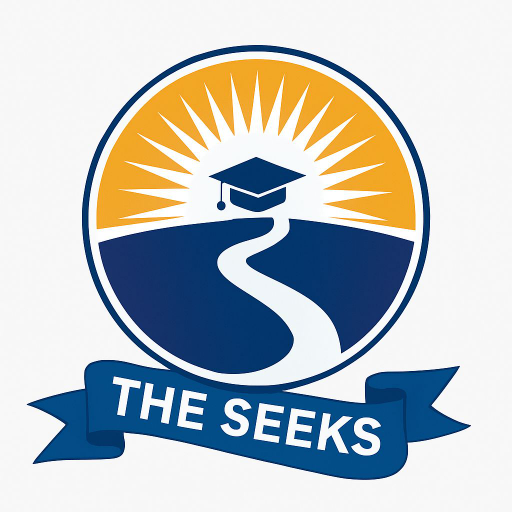
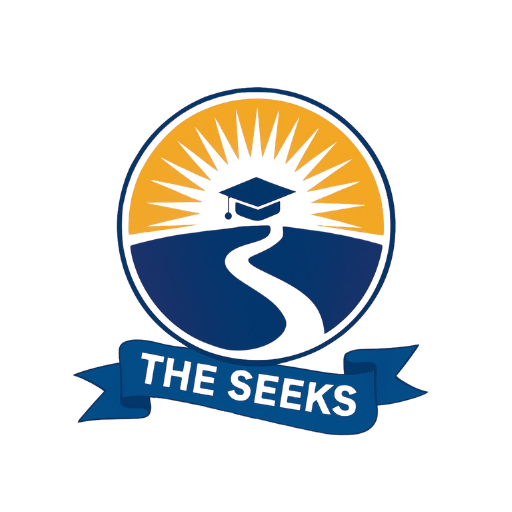
updated

Changed region(s): [[0.0625, 0.0625, 0.9375, 0.9375], [0.5625, 0.5625, 0.5938, 0.5938]]

diff --git a/src/screens/communication/TeacherSuggestionsScreen.tsx b/src/screens/communication/TeacherSuggestionsScreen.tsx
@@ -89,9 +89,9 @@ export const TeacherSuggestionsScreen: React.FC = () => {
           />
 
           <Text style={[styles.inputLabel, { color: theme.text, marginTop: scale(16) }]}>Detailed Suggestion</Text>
-          <View style={{ flex: 1 }}>
+          <View>
             <TextInput
-              style={[styles.textArea, { backgroundColor: theme.card, color: theme.text, borderColor: theme.border, flex: 1 }]}
+              style={[styles.textArea, { backgroundColor: theme.card, color: theme.text, borderColor: theme.border }]}
               placeholder="Explain your suggestion in detail..."
               placeholderTextColor={theme.textSecondary + '80'}
               value={suggestion}

diff --git a/src/screens/academics/TeacherAssignmentsScreen.tsx b/src/screens/academics/TeacherAssignmentsScreen.tsx
@@ -190,7 +190,7 @@ export const TeacherAssignmentsScreen: React.FC = () => {
       <Modal visible={showModal} transparent={true} animationType="slide" onRequestClose={() => setShowModal(false)} statusBarTranslucent={true}>
         <View style={{ flex: 1, backgroundColor: theme.card }}>
           <SafeAreaView style={{ flex: 1 }} edges={['top', 'bottom']}>
-            <KeyboardAvoidingView style={{ flex: 1 }} behavior={Platform.OS === 'ios' ? 'padding' : undefined} keyboardVerticalOffset={0}>
+            <KeyboardAvoidingView style={{ flex: 1 }} behavior="padding" keyboardVerticalOffset={0}>
               <View style={[styles.modalContentFullScreen, { backgroundColor: theme.card }]}>
                 <View style={[styles.modalHeader, { borderBottomColor: theme.border }]}>
                   <Text style={[styles.modalTitle, { color: theme.text }]}>Add Assignment</Text>

diff --git a/src/screens/diary/ClassDiaryScreen.tsx b/src/screens/diary/ClassDiaryScreen.tsx
@@ -616,7 +616,7 @@ export const ClassDiaryScreen: React.FC = () => {
           <SafeAreaView style={{ flex: 1 }} edges={['top', 'bottom']}>
           <KeyboardAvoidingView
             style={{ flex: 1 }}
-            behavior={Platform.OS === 'ios' ? 'padding' : undefined}
+            behavior="padding"
             keyboardVerticalOffset={0}
           >
             <View style={[styles.modalContent, { backgroundColor: theme.card, flex: 1 }]}>

diff --git a/src/screens/exams/GenericExamsScreen.tsx b/src/screens/exams/GenericExamsScreen.tsx
@@ -1547,7 +1547,7 @@ export const GenericExamsScreen: React.FC = () => {
       <Modal visible={modalVisible} animationType="slide" transparent={true} statusBarTranslucent={true}>
         <View style={{ flex: 1, backgroundColor: theme.card }}>
           <SafeAreaView style={{ flex: 1 }} edges={['top', 'bottom']}>
-            <KeyboardAvoidingView style={{ flex: 1 }} behavior={Platform.OS === 'ios' ? 'padding' : undefined}>
+            <KeyboardAvoidingView style={{ flex: 1 }} behavior="padding">
               <View style={{ flex: 1, backgroundColor: theme.background }}>
                 <View style={{ flex: 1, paddingTop: scale(10) }}>
             {/* Header */}